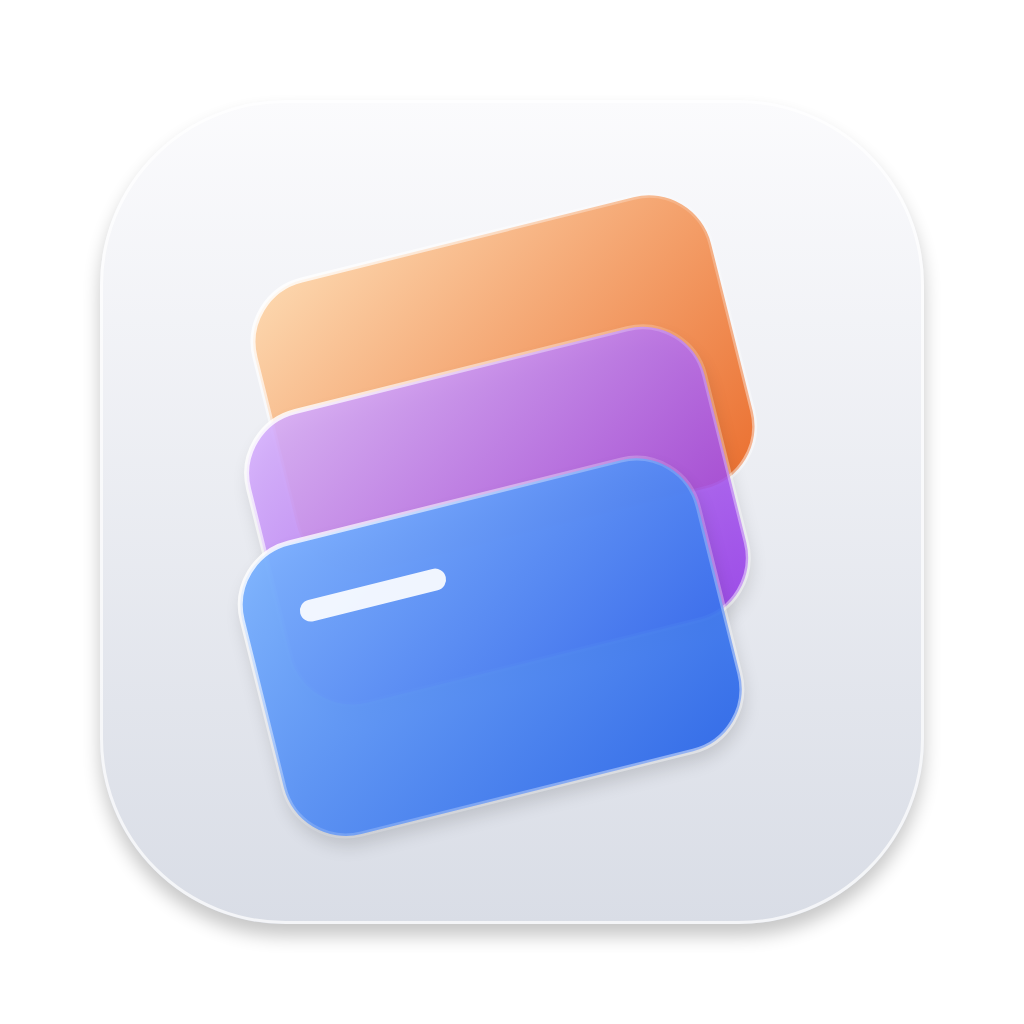
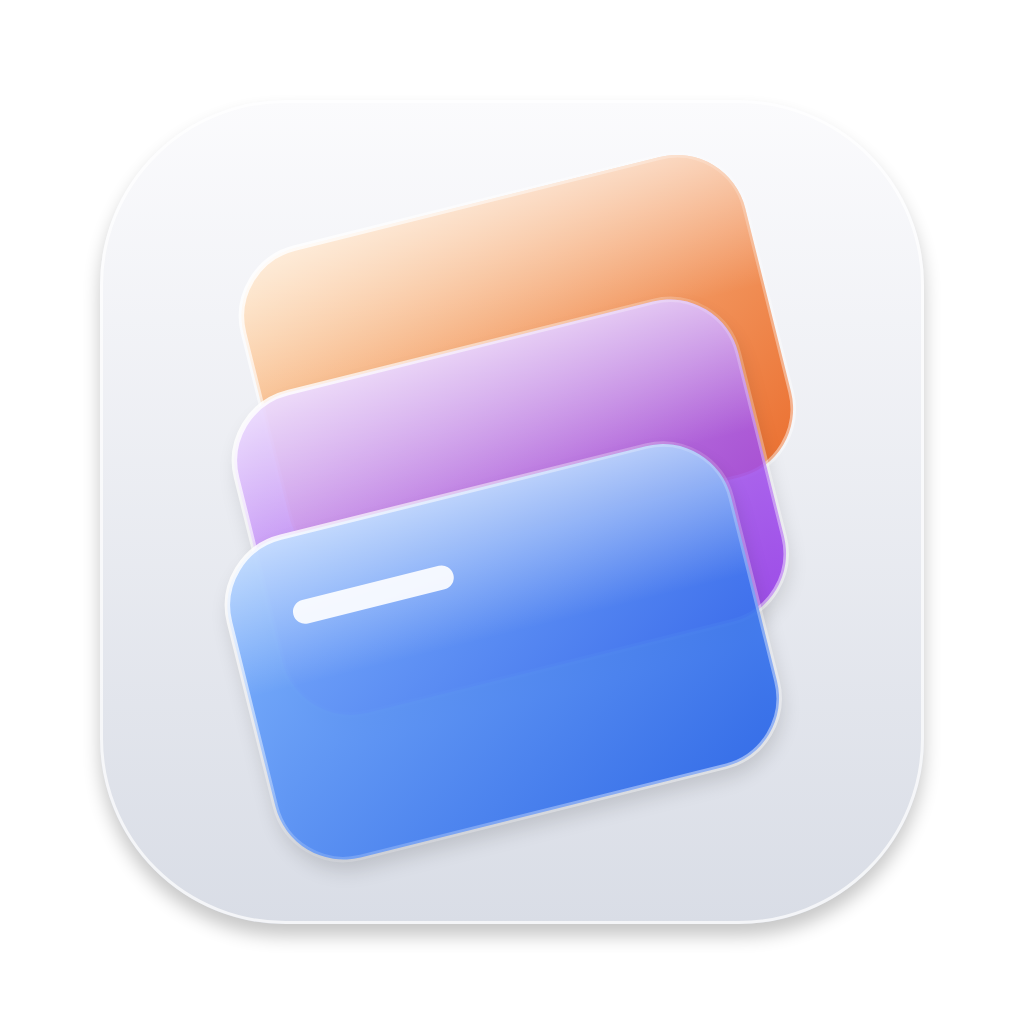
Tur ve simge: VM değerlendirmesinden düzeltmeler
- Gerçek hesap varsa sahnelerde yalnız onlar, yoksa örnekler.
- Dock adımındaki küçük madde listesi kalktı; Geri ilerleme çizgisinin yanında.
- Simge: kartlar ortalandı ve %10 büyüdü, camda üstten parıltı.

Claude-Session: https://claude.ai/code/session_01KQzb2SRA9c1g6YhcipfVTV

Changed region(s): [[0.2188, 0.125, 0.7812, 0.8438]]

diff --git a/Lanes/Onboarding/Onboarding.swift b/Lanes/Onboarding/Onboarding.swift
@@ -203,14 +203,14 @@ struct OnboardingView: View {
     private func bottomBar(_ accounts: [StageAccount]) -> some View {
         HStack(spacing: DS.Space.xl) {
             ProgressLanes(current: step, colors: accounts.map(\.color)) { move(to: $0) }
+            Button("Geri") { move(to: OnboardingStep(rawValue: step.rawValue - 1)) }
+                .buttonStyle(.plain)
+                .foregroundStyle(.secondary)
+                .focusEffectDisabled()
+                .keyboardShortcut(.leftArrow, modifiers: [])
+                .opacity(step == .welcome ? 0 : 1)
+                .disabled(step == .welcome)
             Spacer()
-            if step != .welcome {
-                Button("Geri") { move(to: OnboardingStep(rawValue: step.rawValue - 1)) }
-                    .buttonStyle(.plain)
-                    .foregroundStyle(.secondary)
-                    .focusEffectDisabled()
-                    .keyboardShortcut(.leftArrow, modifiers: [])
-            }
             Button {
                 if step == .done {
                     leave()
@@ -281,11 +281,7 @@ struct OnboardingView: View {
             WelcomeScene(accounts: accounts)
         case .dock:
             StepPage(step: step) {
-                FactList(facts: [
-                    "Asıl Claude uygulaması olduğu gibi kalır.",
-                    "Bir hesaptan çıkmak ötekileri etkilemez.",
-                    "İstersen bir kopyayı Dock'tan gizleyebilirsin.",
-                ], colors: accounts.map(\.color))
+                EmptyView()
             } stage: {
                 DockStage(accounts: accounts, claudeIcon: claudeIcon)
             }
@@ -379,12 +375,9 @@ struct StageAccount: Identifiable {
             StageAccount(id: "example-client", name: String(localized: "Müşteri A"), monogram: "MA", color: ProfileColor.orange.swatch, detail: example, isExample: true),
             StageAccount(id: "example-personal", name: String(localized: "Kişisel"), monogram: "K", color: ProfileColor.green.swatch, detail: example, isExample: true),
         ]
-        for candidate in examples where result.count < 3 {
-            if !result.contains(where: { $0.name == candidate.name }) {
-                result.append(candidate)
-            }
-        }
-        return result
+        // The user's own accounts alone once there is one; examples, marked
+        // as such, only while there are none.
+        return result.isEmpty ? examples : result
     }
 }
 
